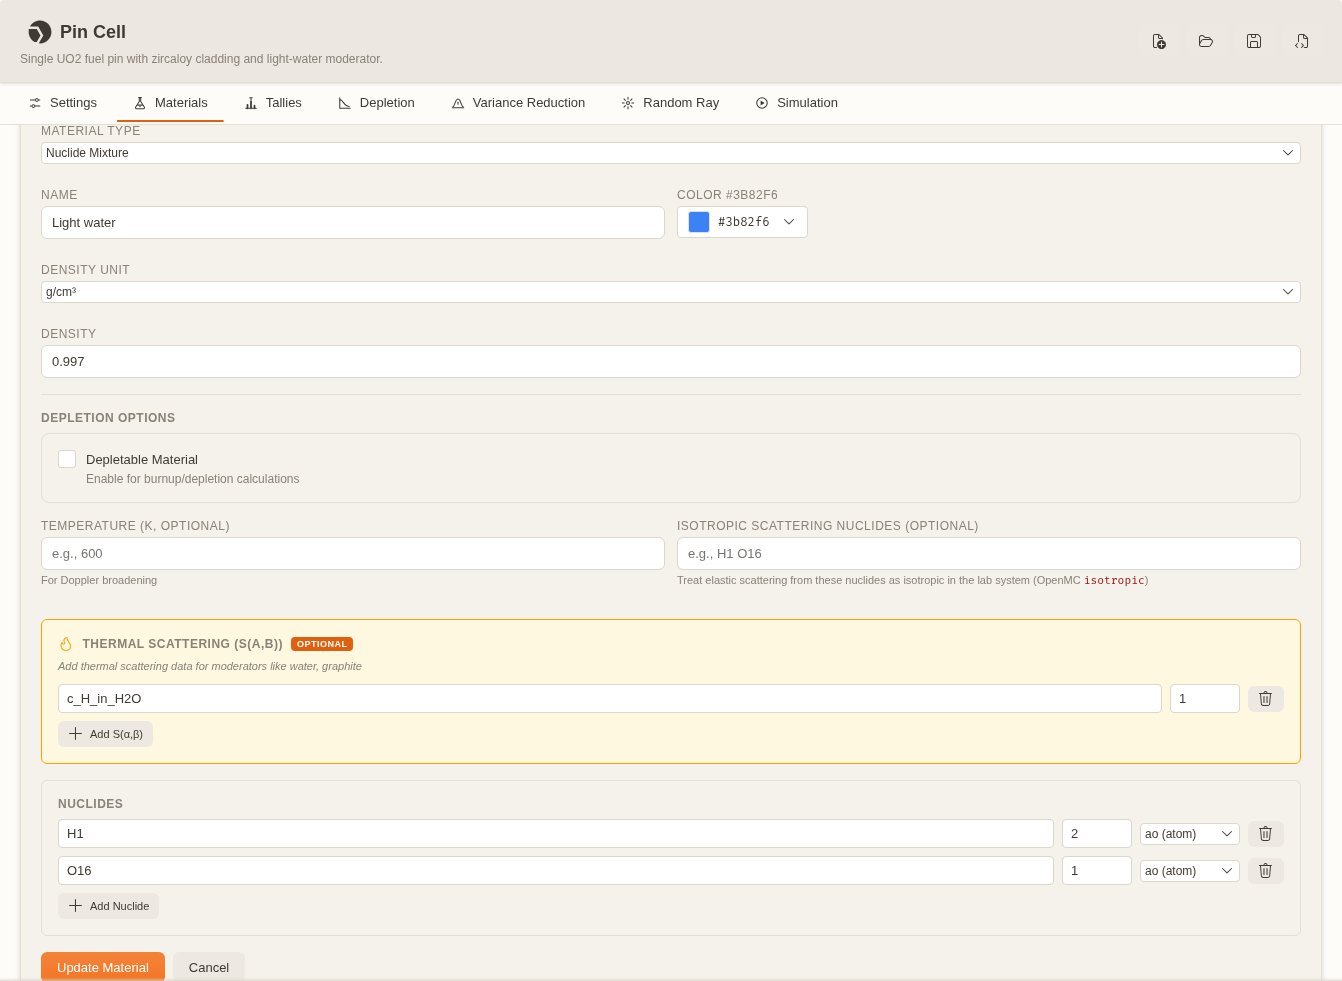
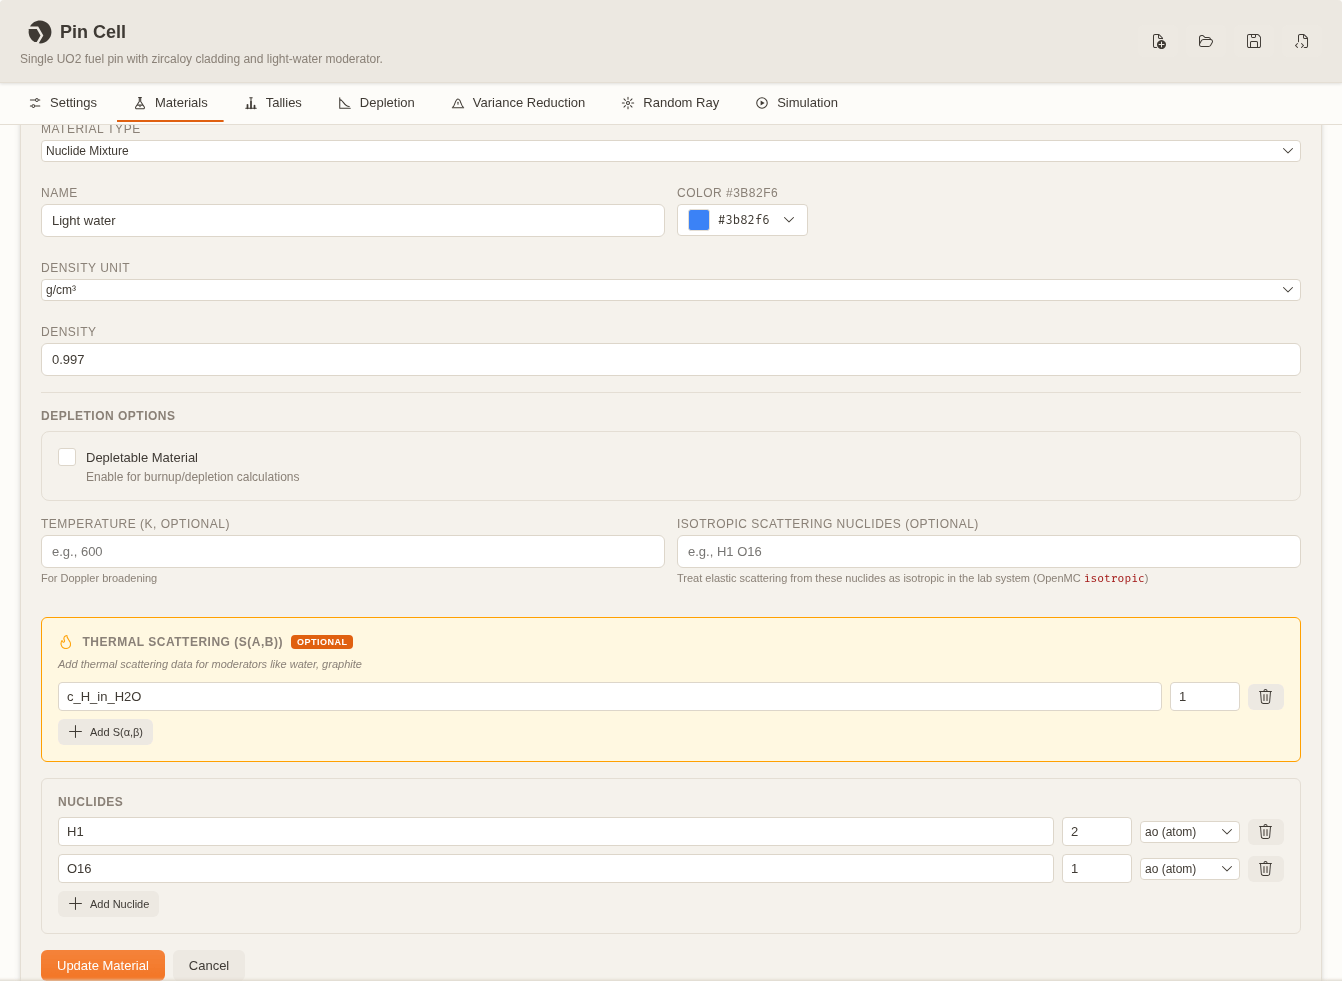
Refresh UI docs and screenshots for the NukeAI controls

diff --git a/extensions/nuke-ai/docs/user/actions.md b/extensions/nuke-ai/docs/user/actions.md
@@ -47,10 +47,11 @@ NukeAI actions also appear beside the work, in the menu or toolbar owned by the 
 | Tally viewer right-click menu             | **Ask About Context**, **Explain Statepoint**, **Diagnose Statepoint** (only with a loaded tally)                                                                |
 
 The statepoint header, CAD document toolbar, and DAGMC editor header open a compact **NukeAI actions**
-menu. The trigger is a small Actions button on wide panels and collapses to its icon on narrow ones; the
-accessible name and tooltip stay available either way. `Esc` closes the menu and returns focus to the
-trigger, and the rows stay in registry order. The context menus keep their existing rows, and the OpenMC
-Simulation tab keeps its inline validation and run groups.
+menu with the NukeAI bot icon. The trigger keeps its label on wide panels and collapses to the bot icon on
+narrow ones; the accessible name and tooltip stay available either way. `Esc` closes the menu and returns
+focus to the trigger, and the rows stay in registry order. The context menus keep their existing rows, and
+the OpenMC Simulation tab keeps its inline validation and run groups with the same bot icon and sentence-case
+group labels.
 
 Each entry runs the same read-only command as its sidebar and Command Palette action. The domain menus never carry
 their own AI logic: they read command-backed descriptors from the neutral `nuke-core` context-action registry. When

diff --git a/extensions/nuke-cad/docs/user/gui-modeler.md b/extensions/nuke-cad/docs/user/gui-modeler.md
@@ -172,7 +172,7 @@ Pins persist in `nukeCad.ribbonPins`; a section renders at most eight inline
 buttons, defaults included.
 
 The document toolbar also carries a compact **NukeAI actions** menu at its right
-edge (the ellipsis button). It lists **Ask About Context**, **Diagnose CAD
+edge (the bot-icon button). It lists **Ask About Context**, **Diagnose CAD
 Model**, **Explain Selection**, and **Check Active CAD Model**; the same rows
 remain in the canvas right-click menu and the NukeAI sidebar. On narrow panels
 the trigger collapses to its icon while keeping its accessible name and tooltip.

diff --git a/extensions/nuke-visualizer/docs/user/openmc/statepoint-viewer.md b/extensions/nuke-visualizer/docs/user/openmc/statepoint-viewer.md
@@ -41,7 +41,7 @@ The Statepoint Viewer is organized into tabs: **Overview** (run configuration), 
 
 ### NukeAI Actions
 
-The statepoint header carries a compact **NukeAI actions** menu (the ellipsis
+The statepoint header carries a compact **NukeAI actions** menu (the bot-icon
 button), and the empty loader offers the same menu beside **Browse Statepoint
 File**. It lists **Ask About Context**, **Explain Statepoint**, and **Diagnose
 Statepoint** in that order. Choose a row to run the same read-only command as

diff --git a/extensions/openmc-studio/docs/user/dagmc-editor.md b/extensions/openmc-studio/docs/user/dagmc-editor.md
@@ -173,7 +173,7 @@ For large models, use **"View in 3D"** from a volume modal to load only the sele
 
 ## NukeAI Actions
 
-The editor header also carries a **NukeAI actions** menu (the ellipsis button):
+The editor header also carries a **NukeAI actions** menu (the bot-icon button):
 
 - **Capture View** — capture the active DAGMC viewport and describe the preview.
 - **Diagnose Statepoint** — appears after a statepoint is loaded in the Visualizer; triages its metadata.
